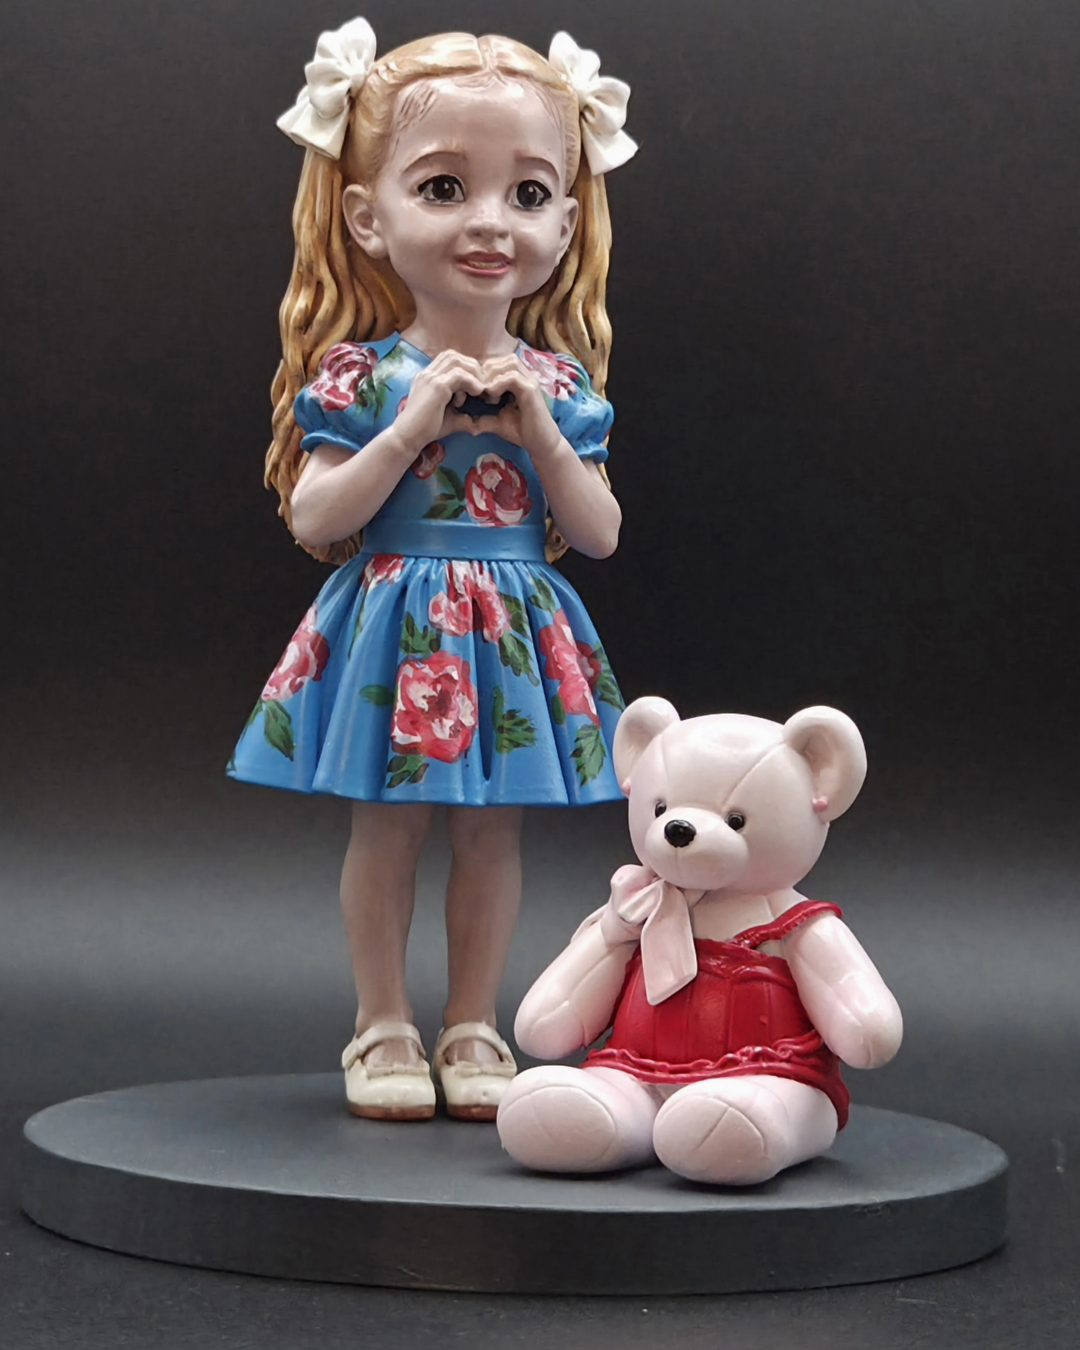
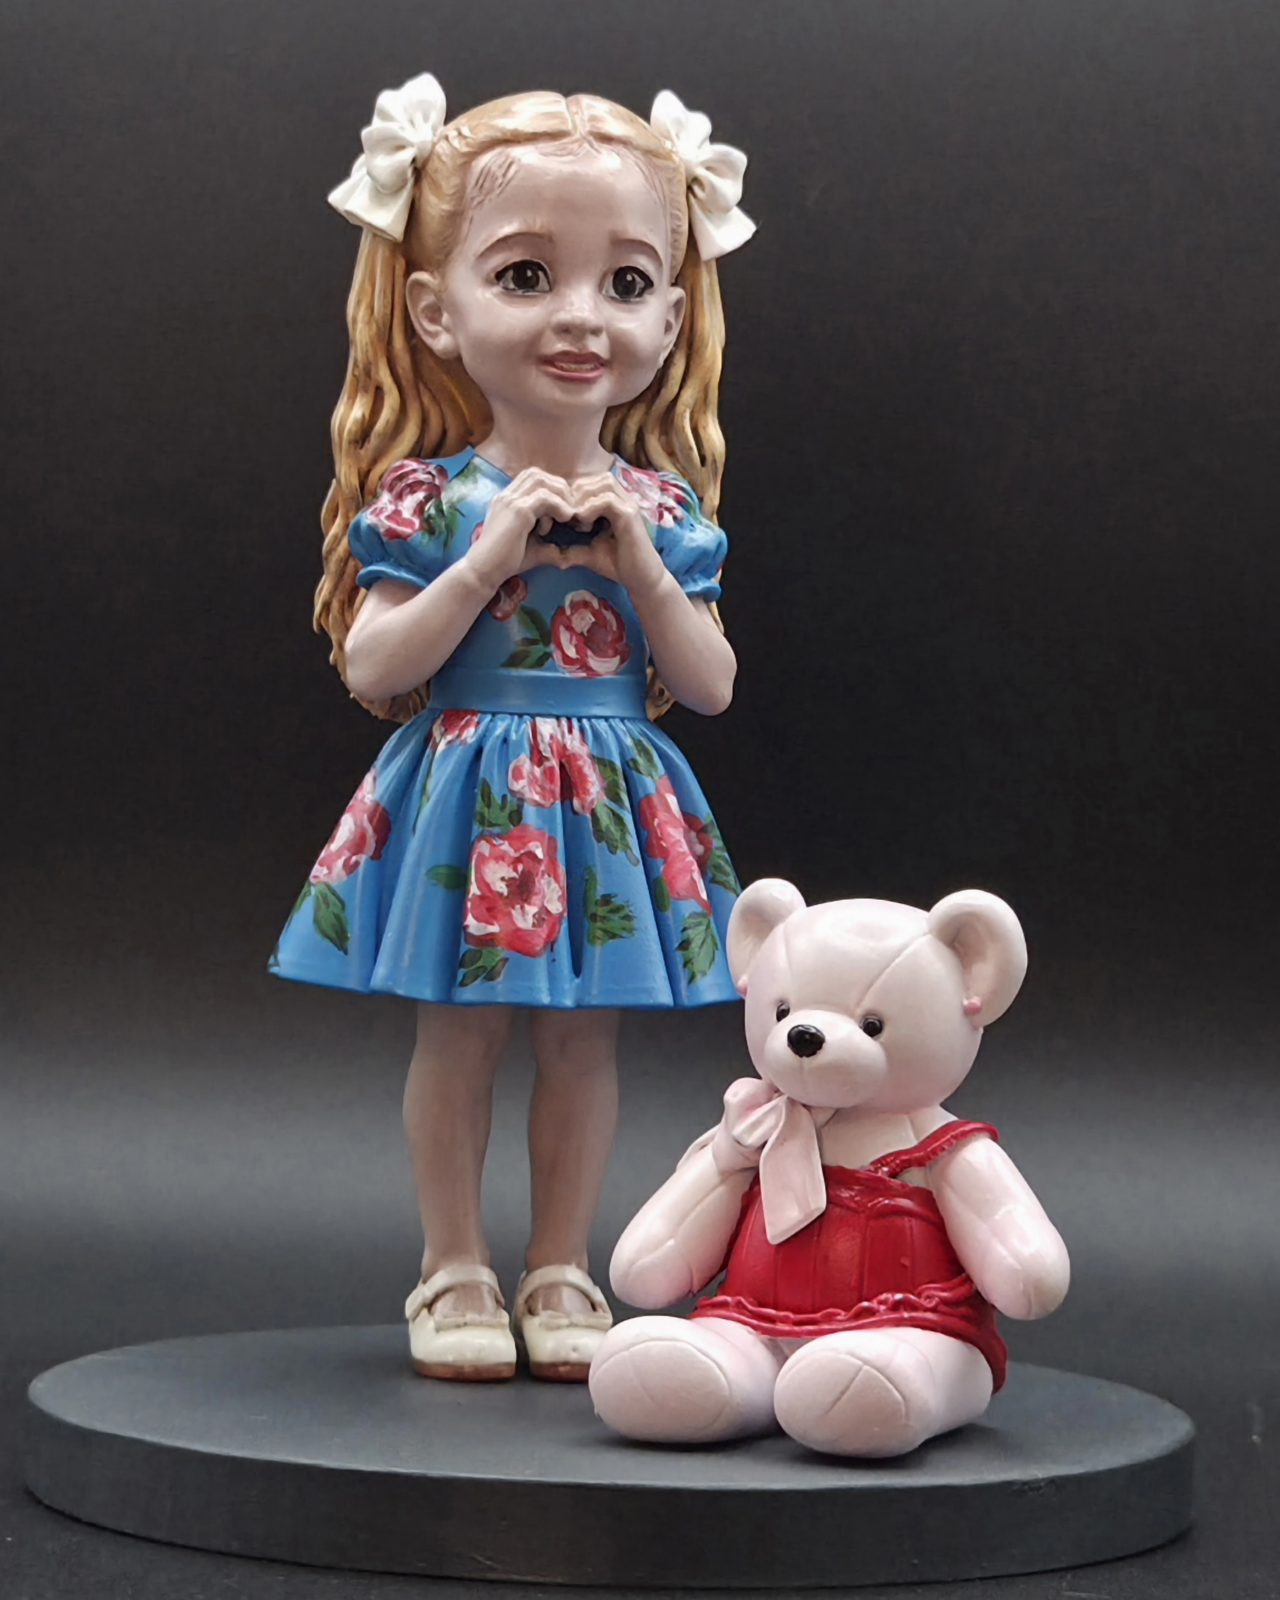
Add files via upload

diff --git a/media/README.md b/media/README.md
@@ -22,7 +22,7 @@
 | `flash.jpg` | Флеш · Фигурка питомца | ✅ стоит |
 | `dorhan.jpg` | ДорХан-Урал · Корпоративная фигурка | ✅ стоит |
 | `hamer.jpg` | Хаммер · Брелок по фото | ✅ стоит (имя исправлено: было «Хамер») |
-| `morph.mp4` + `morph.jpg` | Из фото в фигурку · видео | ✅ стоит |
+| `diana.jpg` | Диана · Фигурка-миниатюра по фото | ✅ стоит (заменила видео «Из фото в фигурку») |
 | `pair.jpg` | Парная фигурка · Свадьба и годовщина | работы пока нет |
 
 Откуда взяты готовые:
@@ -31,6 +31,7 @@
 - `flash.jpg` ← `10_Маркетинг\видео Бигль\3 Статуэтка Флеша.jpg`, кадрирован в 4:5
 - `dorhan.jpg` ← `10_Маркетинг\ДХУ\Новое фото ДХУ.png` (2162×4096), фон дополнен по краям до 4:5, чтобы не срезать логотип и основание
 - `hamer.jpg` ← скачан с живого сайта forever-figure.ru (в локальном index.html карточки не было, при синхронизации заодно исправлено имя «Хамер» → «Хаммер»)
+- `diana.jpg` ← `10_Маркетинг\наши работы фото\фото 1.jpg` (1938×3088), кадрирован в 4:5; заменил карточку видео «Из фото в фигурку» (`morph.mp4` в грид больше не стоит, файлы остались в папке про запас)
 
 **Мультяшный стиль в портфолио не ставим.** Единственный материал — `Чиби Надя.png` —
 это макет до печати, а не готовая работа. Ставить его как работу — та же ошибка,
